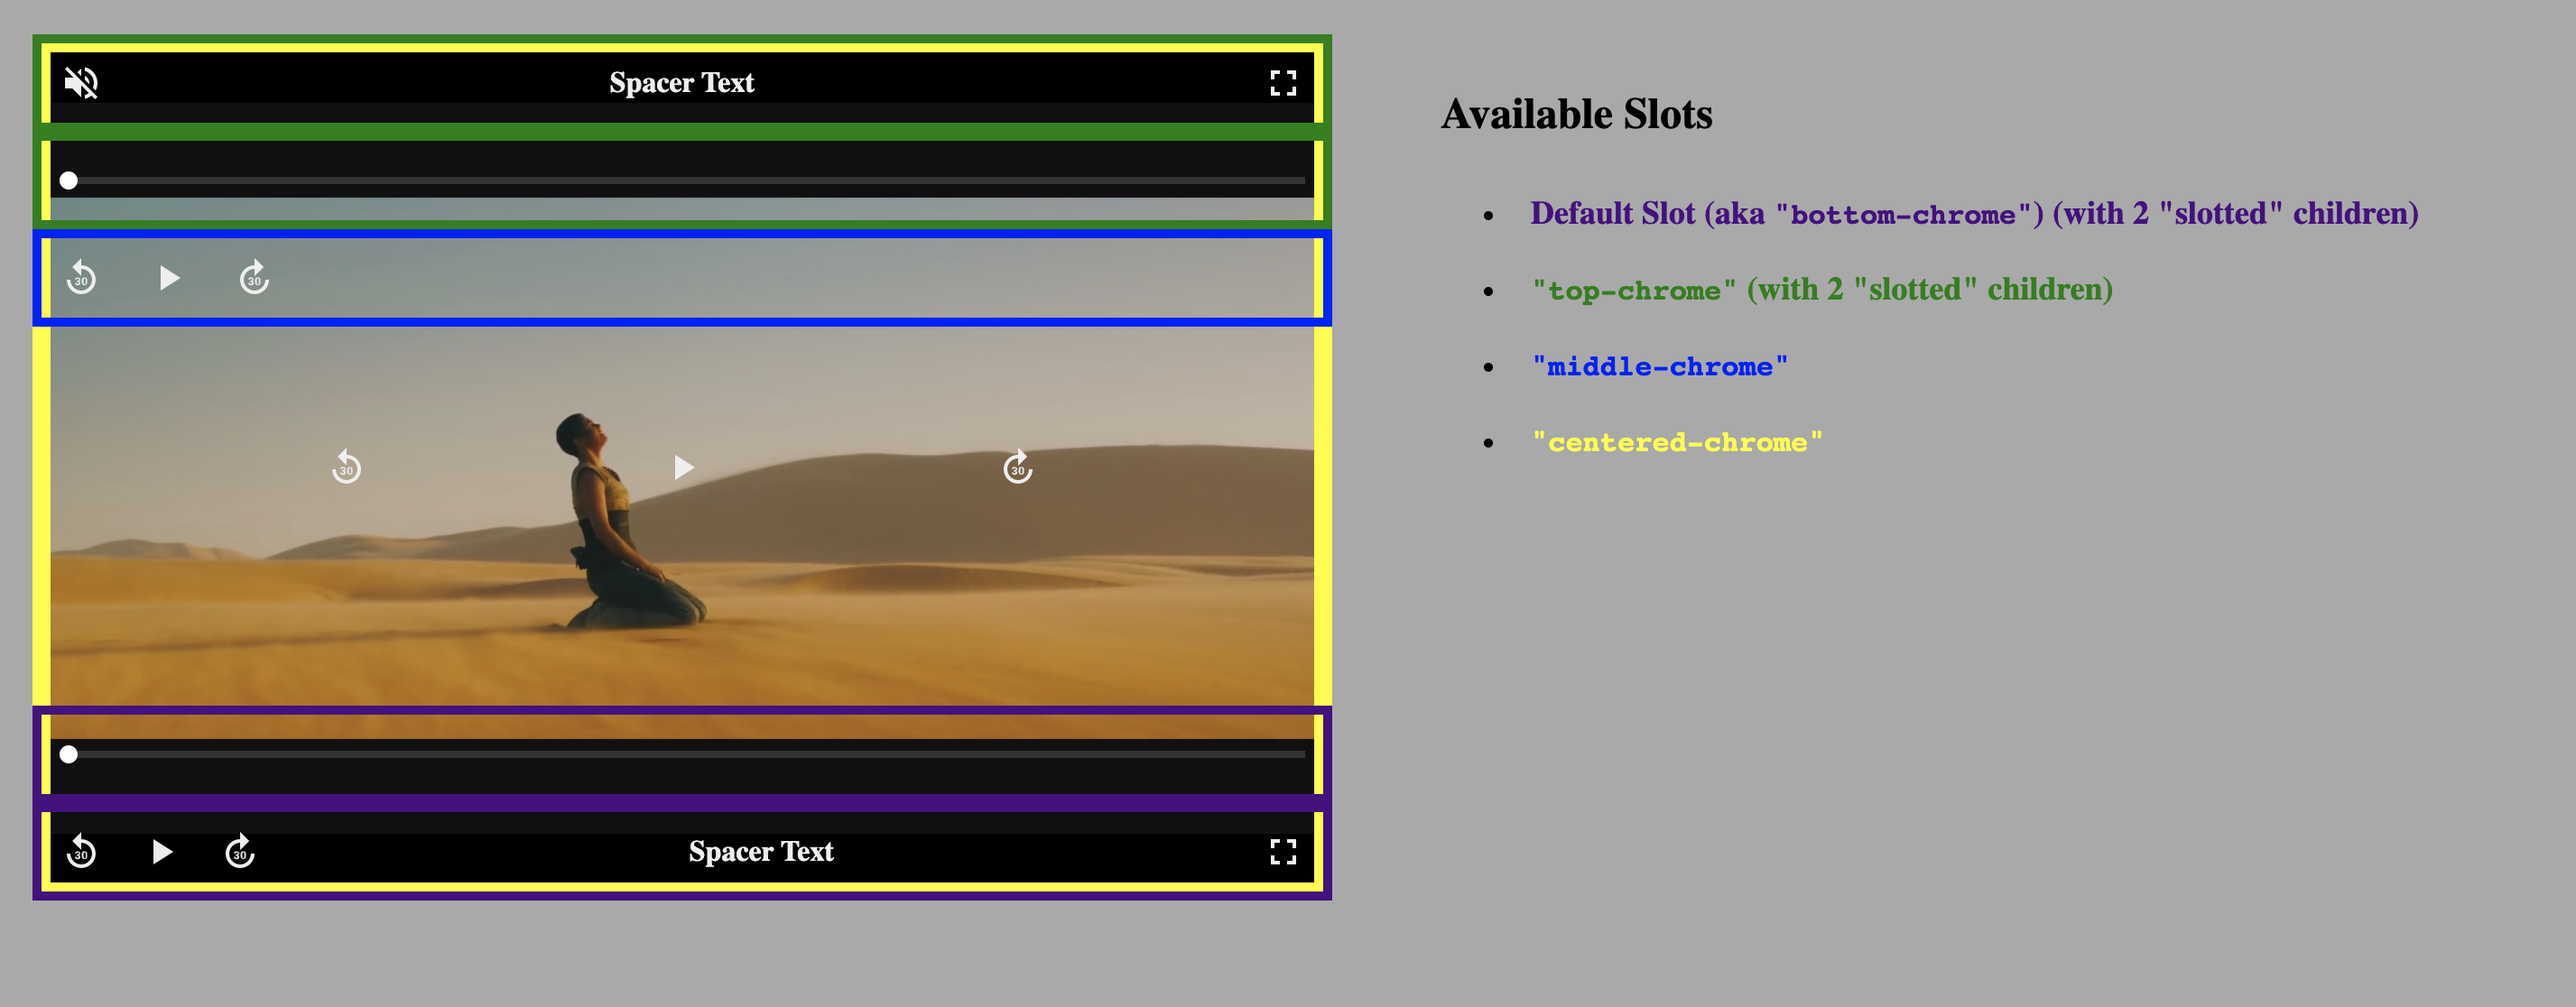
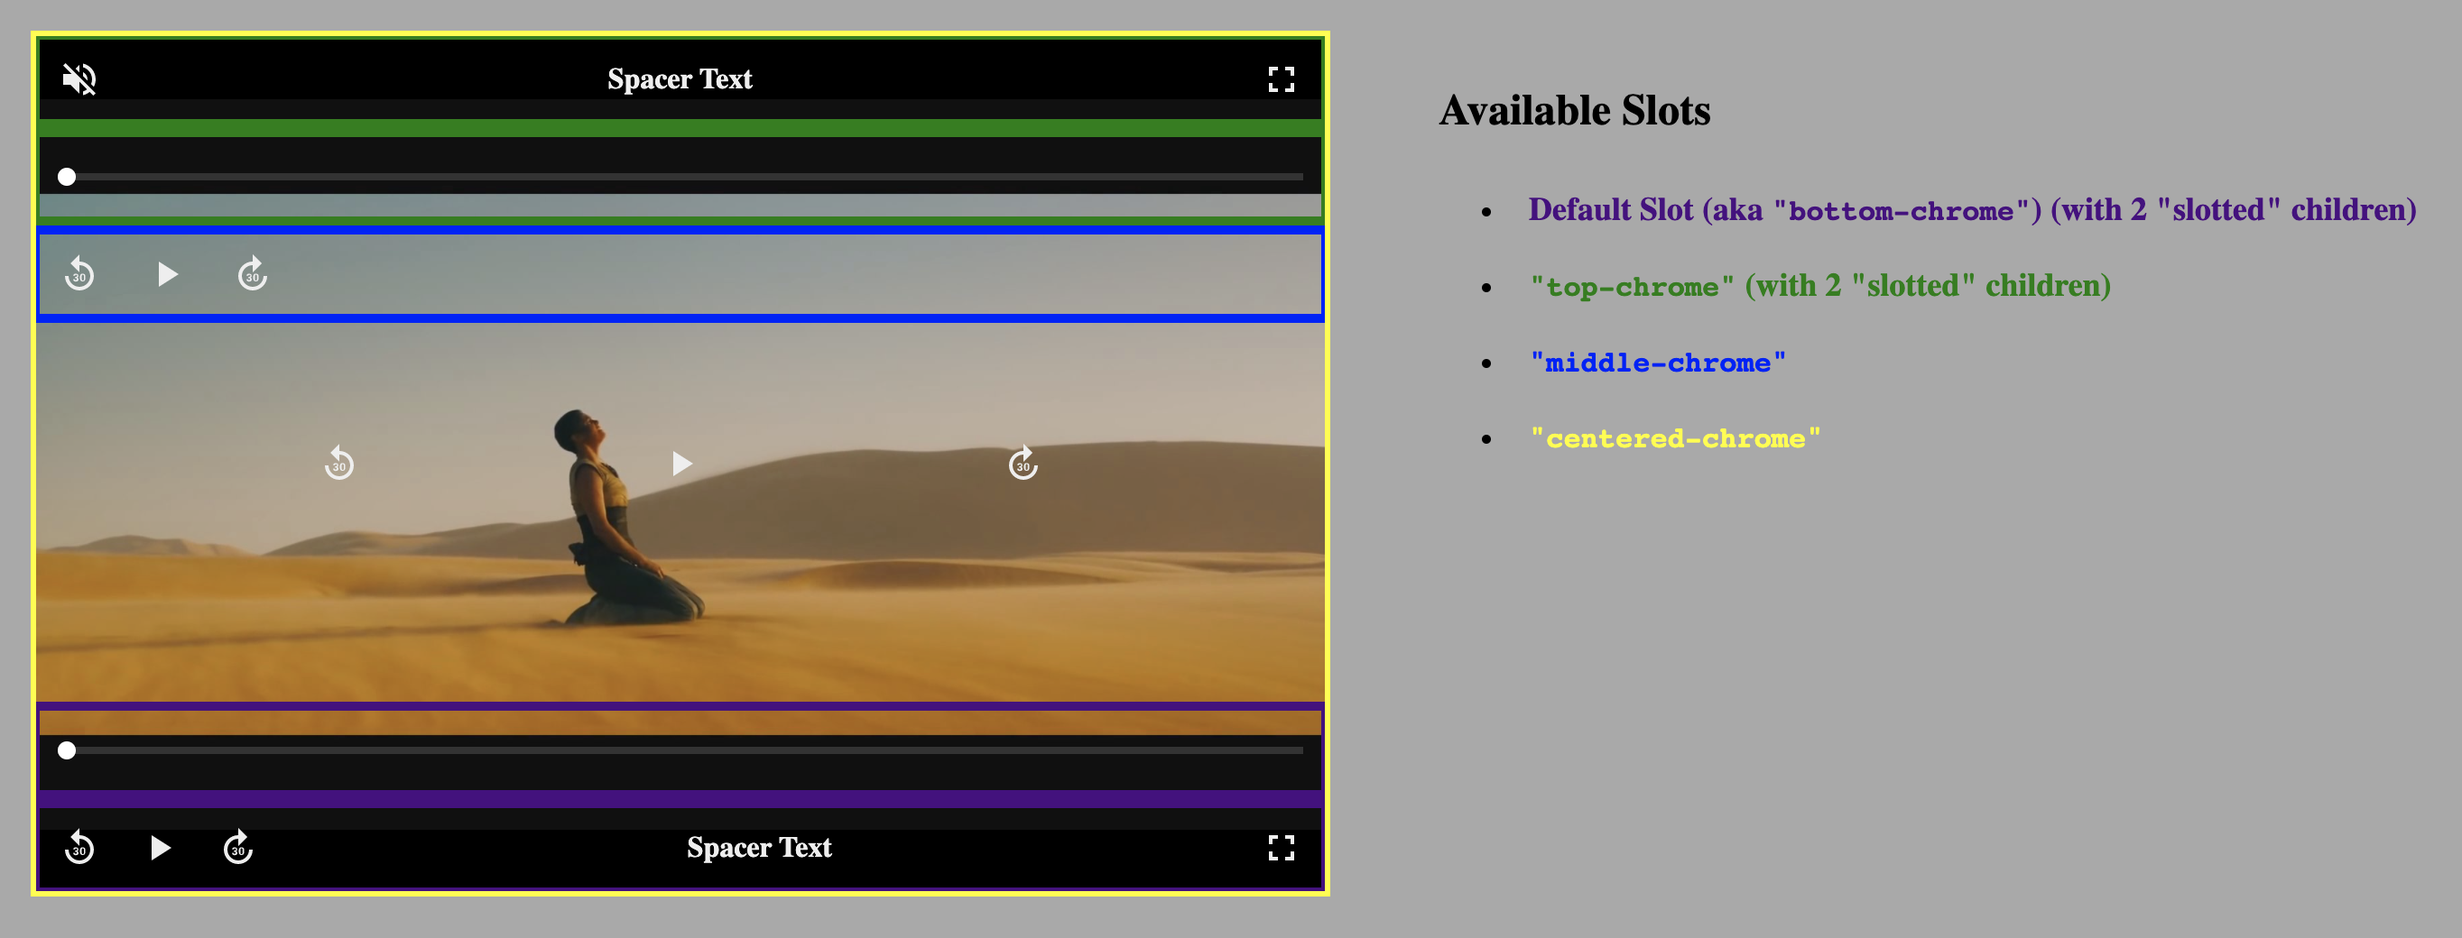
improv/styling-rework: change centered-chrome layer order to future proof for plausible custom subs/cc renderer used in middle-chrome. Update docs. Remove redundant css.

diff --git a/src/js/media-container.js b/src/js/media-container.js
@@ -102,14 +102,14 @@ template.innerHTML = `
   <span part="layer gesture-layer">
     <slot name="gestures-chrome"></slot>
   </span>
-  <span part="layer centered-layer">
-    <slot name="centered-chrome"></slot>
-  </span>
   <span part="layer vertical-layer">
     <slot name="top-chrome"></slot>
     <span class="spacer"><slot name="middle-chrome"></slot></span>
     <!-- default, effectively "bottom-chrome" -->
     <slot></slot>
+  </span>
+  <span part="layer centered-layer">
+    <slot name="centered-chrome"></slot>
   </span>
 `;
 

diff --git a/src/js/media-control-bar.js b/src/js/media-control-bar.js
@@ -19,10 +19,6 @@ template.innerHTML = `
       color: var(--media-icon-color, #eee);
     }
 
-    ::slotted(*), :host > * {
-      flex-shrink: 1;
-    }
-
     media-time-range,
     ::slotted(media-time-range),
     ::slotted(media-progress-range),

diff --git a/docs/media-controller.md b/docs/media-controller.md
@@ -38,7 +38,7 @@ For an interactive example of how each of the slots render for `video`, check ou
 
 ### `centered-chrome`
 
-* Render Location: The child "slotted to" `centered-chrome` will cover all of the `<media-controller/>` but "underneath" anything in the default slot / "`bottom-chrome`", `top-chrome`, or `middle-chrome`. By default, the `centered-chrome` element will layout all children within a centered [flexbox](https://css-tricks.com/snippets/css/a-guide-to-flexbox/) row with each child spaced evenly apart from one another.
+* Render Location: The child "slotted to" `centered-chrome` will cover all of the `<media-controller/>` and will be "above" anything in the default slot / "`bottom-chrome`", `top-chrome`, or `middle-chrome`. By default, the `centered-chrome` element will layout all children within a centered [flexbox](https://css-tricks.com/snippets/css/a-guide-to-flexbox/) row with each child spaced evenly apart from one another.
 
 * Common/Example use cases: "big button" controls that are centered and horizontally layed out "on top of" the media. While you **_can_** have multiple children that are "slotted to" `centered-chrome`, most likely, you'll want to use one to take advantage of the built in layout.
   * [Mobile example](https://media-chrome.mux.dev/examples/mobile.html) ([view source](https://github.com/muxinc/media-chrome/blob/main/examples/mobile.html))
